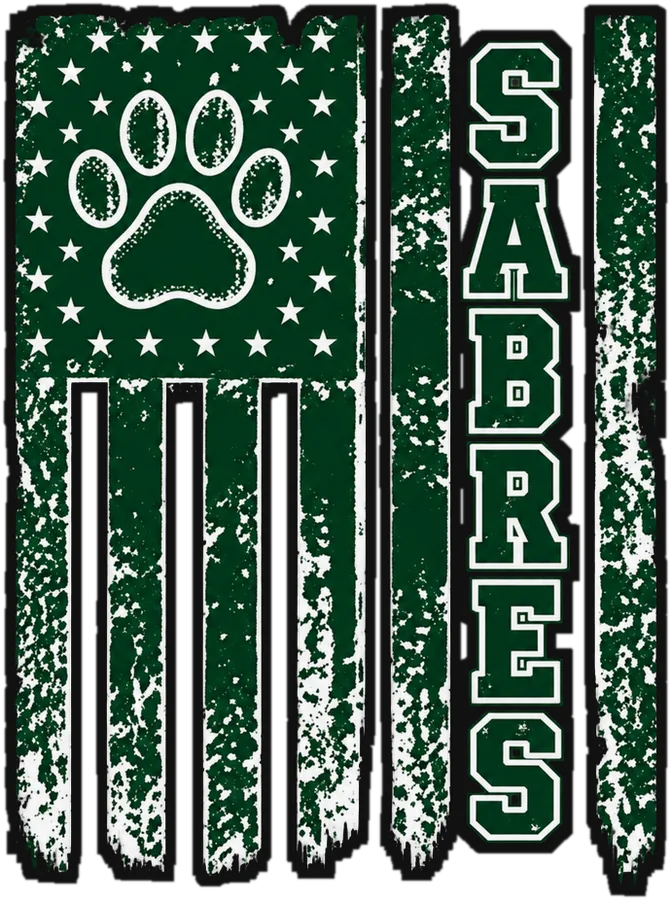
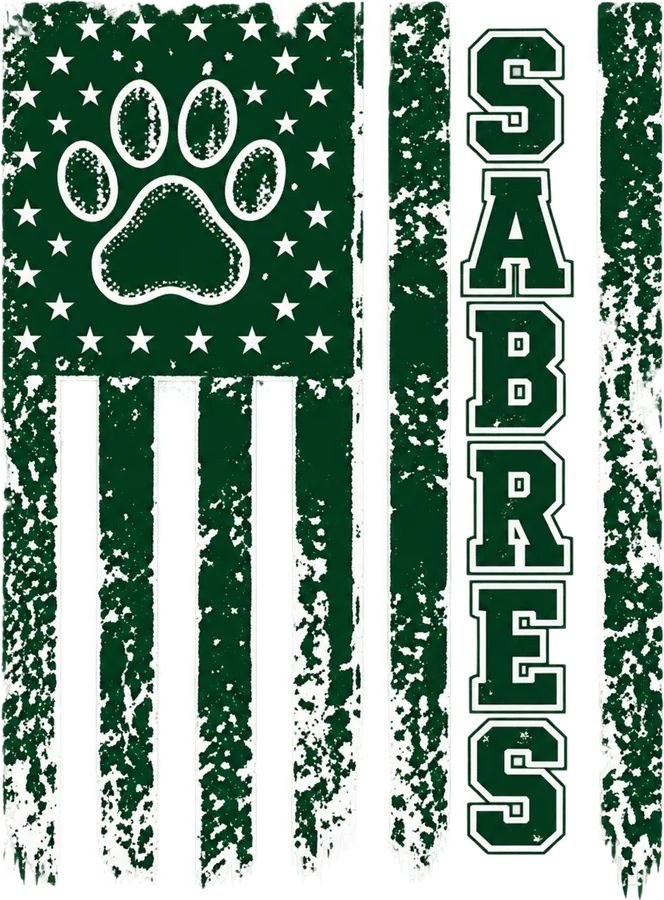
Remove the black outline from #GD-041 (Sabres Flag) on light fabrics
The dark outline traced every distressed edge of the flag in black, so its
light-fabric version now uses the plain art (PLAIN_ON_LIGHT in build_assets.py).
The white outline on dark fabrics is unchanged.

diff --git a/images/spiritwear/build_assets.py b/images/spiritwear/build_assets.py
@@ -33,6 +33,9 @@ def outlined(im, color):
     return out
 
 skip = {'054'}
+# Designs whose light-fabric version is the plain art, no dark outline (e.g. the distressed
+# flag, where an outline traces every rough edge in black).
+PLAIN_ON_LIGHT = {'gd-041'}
 n = 0
 for folder, prefix in (('01-General-Designs', 'gd'), ('02-Simple-Sabres', 'ss')):
     for f in sorted(os.listdir(os.path.join(D, folder))):
@@ -43,7 +46,7 @@ for folder, prefix in (('01-General-Designs', 'gd'), ('02-Simple-Sabres', 'ss'))
         im = fit(im, 900)
         key = f'{prefix}-{f[:3]}'
         for tone, color in OUTLINES.items():
-            o = outlined(im, color)
+            o = im if tone == 'light' and key in PLAIN_ON_LIGHT else outlined(im, color)
             fit(o, 900).save(os.path.join(OUT, 'designs', tone, key + '.webp'), 'WEBP', quality=82, method=6)
             fit(o, 240).save(os.path.join(OUT, 'designs/thumbs', tone, key + '.webp'), 'WEBP', quality=80, method=6)
         n += 1
